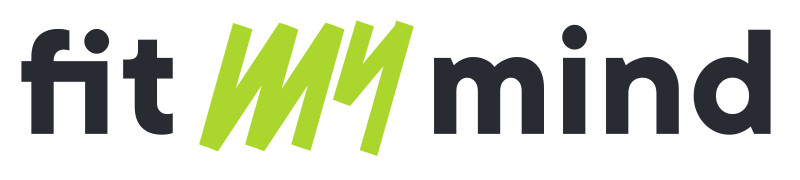
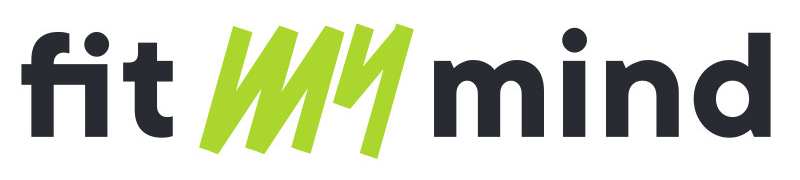
white backgroud

diff --git a/app/assets/stylesheets/template/style-main.css b/app/assets/stylesheets/template/style-main.css
@@ -280,7 +280,7 @@ iframe {
   color: #292B33 !important;
 }
 .bg-lighter {
-  background-color: #f7f7f7 !important;
+  background-color: #E8E8E8 !important;
 }
 .bg-lightest {
   background-color: #fcfcfc !important;
@@ -642,11 +642,6 @@ ul.list.list-white li a {
 .list-features {
   -moz-column-count: 3;
   column-count: 3;
-}
-.list-dashed > article {
-  border-bottom: 1px dashed #d3d3d3 !important;
-  margin-bottom: 7px;
-  padding-bottom: 7px;
 }
 .list-dashed > div {
   border-bottom: 1px dashed #d3d3d3 !important;
@@ -1371,7 +1366,7 @@ form textarea:focus {
   margin-top: 0;
 }
 .post .entry-content {
-  background: #f8f8f8;
+  background: #E8E8E8;
   padding: 15px;
 }
 .post .entry-date {

diff --git a/app/assets/stylesheets/template/theme-skin-green.css b/app/assets/stylesheets/template/theme-skin-green.css
@@ -21,7 +21,7 @@ COLOR CODE: #ABD62E
   background-color: #ABD62E !important;
 }
 .bg-theme-colored-white {
-  background-color: #E8E8E8 !important;
+  background-color: #ffffff !important;
 }
 .bg-theme-colored-green {
   background-color: #ABD62E !important;
@@ -29,6 +29,11 @@ COLOR CODE: #ABD62E
 .bg-theme-colored-blue {
   background-color: #292B33 !important;
 }
+
+section {
+  background-color: #ffffff !important;
+}
+
 /* bg-hover-theme-color */
 .bg-hover-theme-colored:hover {
   background: #ABD62E !important;

diff --git a/app/assets/stylesheets/home.scss b/app/assets/stylesheets/home.scss
@@ -116,3 +116,19 @@
     border: none;
   }
 }
+
+.blog-posts {
+  .post {
+    box-shadow: 3px 3px 3px grey;
+    border-top: 2px solid #E8E8E8;
+    border-left: 2px solid #E8E8E8;
+  }
+}
+
+.services {
+  .item {
+    box-shadow: 3px 3px 3px #9f9f9f;
+    border-top: 2px solid #E8E8E8;
+    border-left: 2px solid #E8E8E8;
+  }
+}

diff --git a/app/assets/stylesheets/calculators.scss b/app/assets/stylesheets/calculators.scss
@@ -4,6 +4,14 @@
   }
 }
 
+#calculators {
+  .item {
+    box-shadow: 3px 3px 3px #9f9f9f;
+    border-top: 2px solid #E8E8E8;
+    border-left: 2px solid #E8E8E8;
+  }
+}
+
 .menu-tag {
   border: 2px solid #ABD62E;
   color: #ABD62E;
